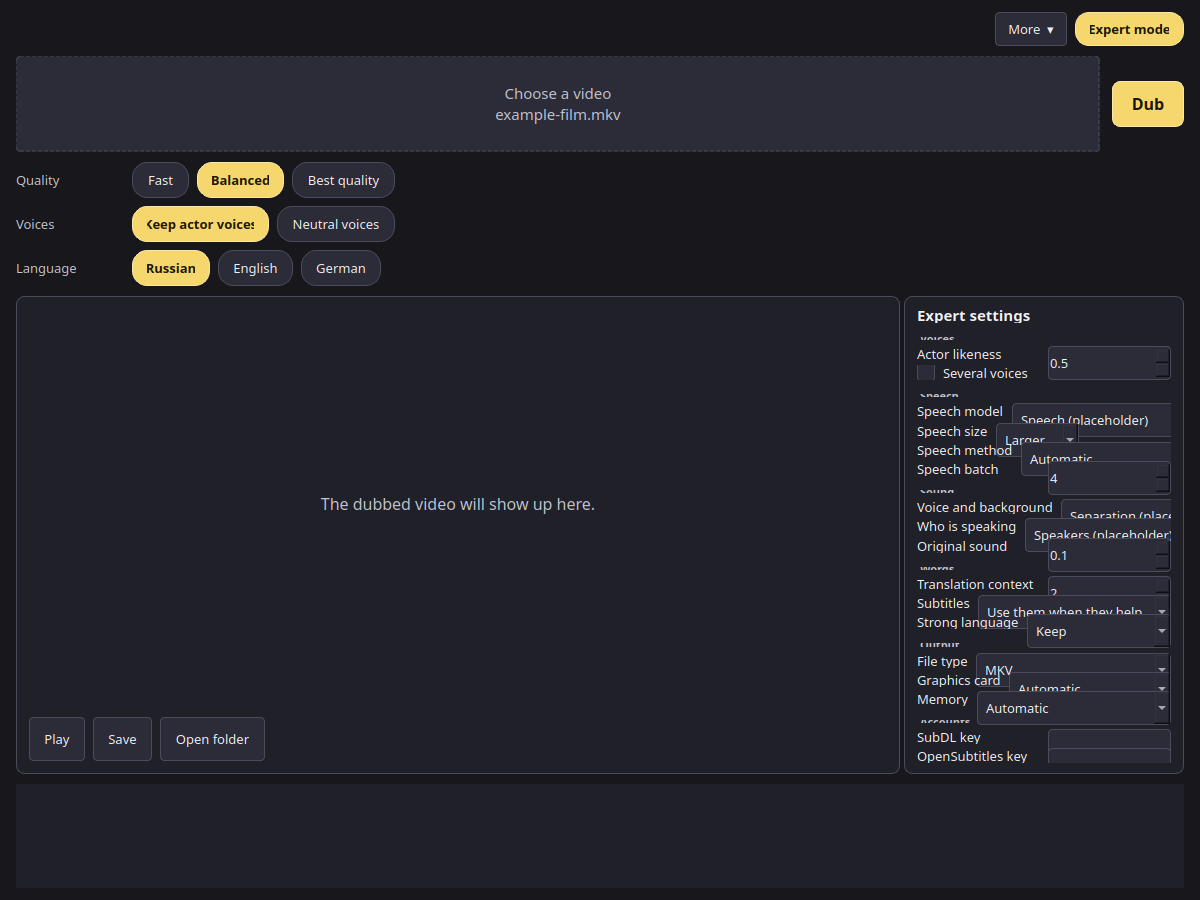
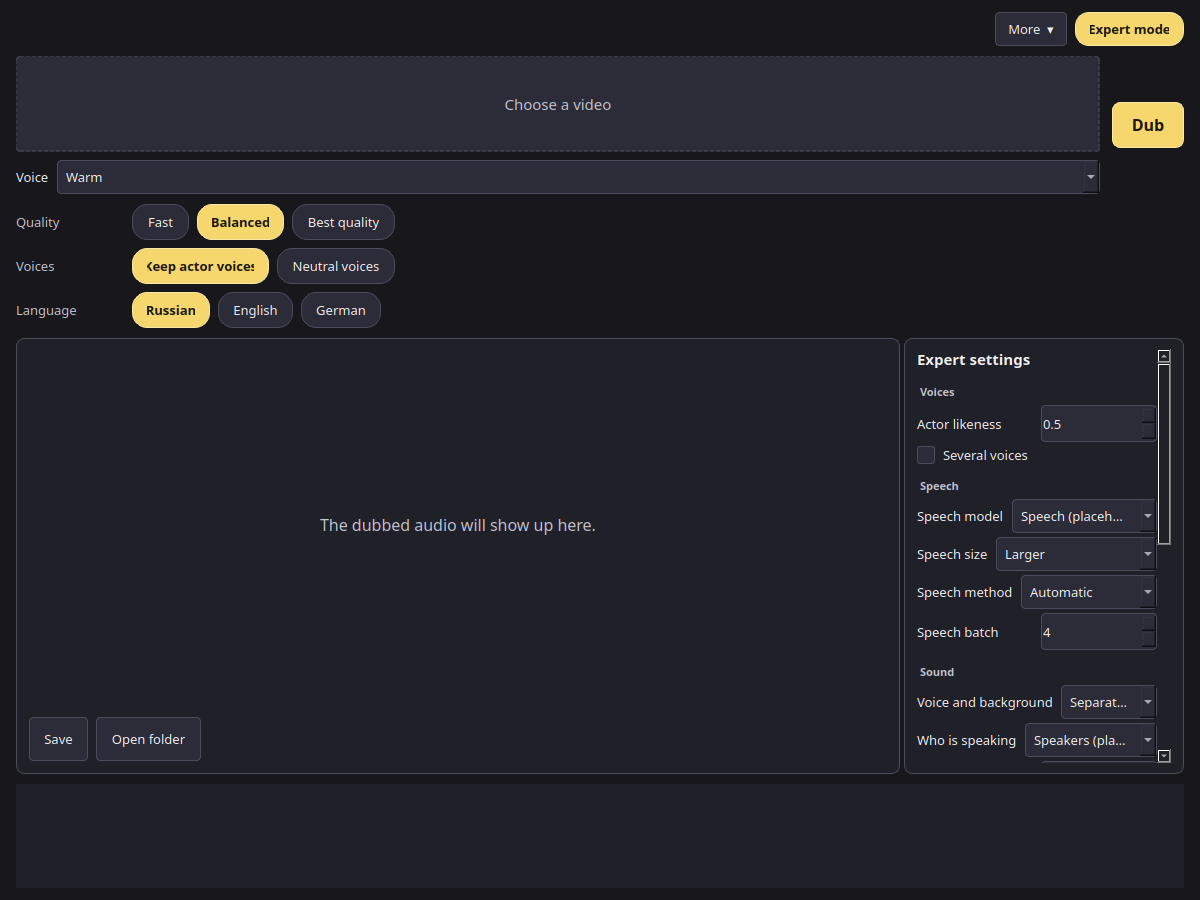
Open the dub screen on the library audio surface.
Movie Dubber now uses surface_for("movie-dubber"), which is the audio
variant. The custom video AppSurface is gone, and the state files are
audio-settings.json and audio-history.json. The pin includes the ui extra.

diff --git a/dubber/ui/shell_window.py b/dubber/ui/shell_window.py
@@ -1,7 +1,8 @@
-"""The movie window on the shared video screen.
+"""The movie window on the shared audio screen.
 
 Simple mode is the video, the language, Quality, Voices, and Dub. Expert mode
-adds the side panel. Both read one settings state. Manage models opens
+adds the side panel. Both read one settings state. The screen is
+``surface_for("movie-dubber")`` from voxprint-common. Manage models opens
 VOXPrint MDL. The older four-step window stays in :mod:`dubber.ui.window` for
 the checks that still build it, and nothing in this window opens it.
 """
@@ -24,13 +25,7 @@ from dubber.models import launch_mdl
 from dubber.pipeline.stages import MOCK_CFG, ORDER
 from dubber.ui import dialogs
 from dubber.ui.jobs import PipelineThread
-from dubber.ui.shell_state import (
-    DUB_SURFACE,
-    apply_engine,
-    apply_project,
-    build_layout,
-    dub_settings,
-)
+from dubber.ui.shell_state import apply_engine, apply_project, build_layout, dub_settings
 from voxprint_common.i18n import add_catalogs
 from voxprint_common.i18n import set_language as set_shell_language
 from voxprint_common.paths import state_dir
@@ -38,7 +33,13 @@ from voxprint_common.suite_settings import set_window_geometry, window_geometry
 from voxprint_common.ui.expert import ExpertMode
 from voxprint_common.ui.simple_image import Phase, SimpleLayout, SimpleWidget
 from voxprint_common.ui.theme import build_shell_style, build_style
-from voxprint_common.ui.variants import WINDOW_HEIGHT, WINDOW_MIN_HEIGHT, WINDOW_MIN_WIDTH, WINDOW_WIDTH
+from voxprint_common.ui.variants import (
+    WINDOW_HEIGHT,
+    WINDOW_MIN_HEIGHT,
+    WINDOW_MIN_WIDTH,
+    WINDOW_WIDTH,
+    surface_for,
+)
 
 VIDEO_EXTS = {".mkv", ".mp4", ".avi", ".mov", ".webm", ".m4v", ".ts", ".m2ts"}
 
@@ -84,7 +85,7 @@ class _VideoPick(QObject):
 
 
 class ShellWindow(QWidget):
-    """Simple video screen. Expert mode only opens the side panel."""
+    """Simple audio screen. Expert mode only opens the side panel."""
 
     def __init__(
         self,
@@ -109,6 +110,7 @@ class ShellWindow(QWidget):
         self._run_id = 0
         self._eta: int | None = None
         self._outputs: dict[str, Path] = {}
+        self._source: Path | None = None
         self._fitted = False
         self.diag_dialog: dialogs.DiagnosticsDialog | None = None
         self.expert = ExpertMode()
@@ -120,7 +122,7 @@ class ShellWindow(QWidget):
             on_generate=self._started,
             on_command=self._command,
             on_history=self._history,
-            surface=DUB_SURFACE,
+            surface=surface_for("movie-dubber"),
         )
         self.setObjectName("shell")
         self.setWindowTitle(APP_DISPLAY_NAME)
@@ -130,7 +132,6 @@ class ShellWindow(QWidget):
         body.setContentsMargins(0, 0, 0, 0)
         body.addWidget(self.view.root)
         self._install_video_pick()
-        self._add_play()
         self._add_diagnostics()
         self._stop_expert = self.expert.subscribe(self.view.set_expert)
         self.view.set_expert(self.expert.enabled())
@@ -147,8 +148,10 @@ class ShellWindow(QWidget):
         if path.suffix.lower() not in VIDEO_EXTS or not path.is_file():
             self.view.set_note(tr("shell.need_file"))
             return
+        chosen = path.resolve()
+        self._source = chosen
         self.view.set_note("")
-        self.view.set_prompt_text(str(path.resolve()))
+        self.view.set_prompt_text(str(chosen))
         self.view.refresh(prompt=True)
 
     def browse(self) -> None:
@@ -244,17 +247,6 @@ class ShellWindow(QWidget):
         self._picker = _VideoPick(self)
         drop.installEventFilter(self._picker)
 
-    def _add_play(self) -> None:
-        button = QPushButton(tr("shell.play"))
-        button.setObjectName("playResult")
-        button.setAutoDefault(False)
-        button.setMinimumHeight(34)
-        button.clicked.connect(self._play)
-        bar = self.view.root.findChild(QWidget, "actionBar")
-        if bar is None or bar.layout() is None:
-            return
-        bar.layout().insertWidget(0, button)
-
     def _add_diagnostics(self) -> None:
         overflow = self.view.root.findChild(QPushButton, "overflow")
         menu = None if overflow is None else overflow.menu()
@@ -297,9 +289,24 @@ class ShellWindow(QWidget):
         if action == "show_folder":
             self._reveal(path)
 
+    def _restore_source(self) -> Path | None:
+        """Put the chosen film back into the prompt.
+
+        Dub appends the shell voice label to the prompt. That combo is a
+        placeholder on the audio surface. The film path stays on this window.
+
+        Returns:
+            The film, or None when none is chosen.
+        """
+        path = self._source
+        if path is None or not path.is_file() or path.suffix.lower() not in VIDEO_EXTS:
+            return None
+        self.shell.set_prompt(str(path))
+        return path
+
     def _started(self) -> None:
-        path = Path(self.shell.prompt.strip())
-        if not path.is_file() or path.suffix.lower() not in VIDEO_EXTS:
+        path = self._restore_source()
+        if path is None:
             self.shell.block(tr("shell.need_file"))
             self.view.refresh()
             return
@@ -420,13 +427,6 @@ class ShellWindow(QWidget):
     def _open_settings(self) -> None:
         dialogs.SettingsDialog(self).exec()
 
-    def _play(self) -> None:
-        path = self._current_output()
-        if path is None:
-            self.view.set_note(tr("shell.need_result"))
-            return
-        self._open_file(path)
-
     def _open_folder(self) -> None:
         path = self._current_output() or self._video_path()
         if path is None:
@@ -443,6 +443,8 @@ class ShellWindow(QWidget):
         return None
 
     def _video_path(self) -> Path | None:
+        if self._source is not None and self._source.is_file():
+            return self._source
         text = self.shell.prompt.strip()
         if not text:
             return None

diff --git a/dubber/ui/shell_state.py b/dubber/ui/shell_state.py
@@ -17,7 +17,7 @@ from voxprint_common.mdl.catalog import load_manifest
 from voxprint_common.ui.presets import PresetFile, PresetGroup, PresetOption
 from voxprint_common.ui.settings import Choice, SettingSpec, Settings, SettingType
 from voxprint_common.ui.simple_image import SimpleLayout
-from voxprint_common.ui.variants import AppSurface, InputKind, ResultKind, VariantId
+from voxprint_common.ui.variants import state_names, surface_for
 
 from dubber.appinfo import resource_dir
 
@@ -32,18 +32,6 @@ PLACEHOLDER_ROLES: dict[str, str] = {
 }
 
 _FORGE: dict[str, str] = {}
-
-DUB_SURFACE = AppSurface(
-    "movie-dubber",
-    VariantId.VIDEO,
-    InputKind.FILE,
-    ResultKind.PLAYER,
-    "simple.action.dub",
-    "simple.empty.video",
-    "simple.drop.video",
-    "video",
-    "simple.drop.video",
-)
 
 _QUALITY_ORDER = (
     "dub.tts_model",
@@ -448,19 +436,24 @@ def dub_presets(settings: Settings | None = None) -> PresetFile:
 
 
 def build_layout(state_dir: Path | None) -> SimpleLayout:
-    """Build the video screen state. ``state_dir`` None keeps it in memory.
+    """Build the dub screen state. ``state_dir`` None keeps it in memory.
+
+    The widget uses :func:`surface_for` ``movie-dubber``. That surface is the
+    audio variant, so the files are ``audio-settings.json`` and
+    ``audio-history.json``.
 
     Args:
         state_dir: App state directory, or None for a memory-only state.
     """
     settings = dub_settings()
+    settings_file, history_file = state_names(surface_for("movie-dubber"))
     return SimpleLayout(
         presets=dub_presets(settings),
         settings=settings,
         state_dir=state_dir,
         gate=DubReview(),
-        state_name="video-settings.json",
-        history_name="video-history.json",
+        state_name=settings_file,
+        history_name=history_file,
     )
 
 

diff --git a/tests/test_shell_state.py b/tests/test_shell_state.py
@@ -1,6 +1,8 @@
 """Shared settings state for the simple screen: presets, custom, reset, and Expert mode."""
 from __future__ import annotations
 
+from pathlib import Path
+
 from dubber.ui.shell_state import (
     apply_engine,
     apply_project,
@@ -13,12 +15,31 @@ from dubber.ui.shell_state import (
 )
 from voxprint_common.ui.expert import ExpertMode
 from voxprint_common.ui.presets import PresetMatch
+from voxprint_common.ui.variants import InputKind, ResultKind, VariantId, state_names, surface_for
 
 
 def _layout(tmp_path, monkeypatch):
     monkeypatch.setenv("VOXPRINT_HOME", str(tmp_path / "home"))
     clear_model_forge()
     return build_layout(tmp_path / "state")
+
+
+def test_layout_uses_the_library_audio_surface(tmp_path, monkeypatch):
+    surface = surface_for("movie-dubber")
+    assert surface.variant is VariantId.AUDIO
+    assert surface.input_kind is InputKind.MEDIA_VOICE
+    assert surface.result_kind is ResultKind.PLAYER
+    settings_name, history_name = state_names(surface)
+    assert (settings_name, history_name) == ("audio-settings.json", "audio-history.json")
+    layout = _layout(tmp_path, monkeypatch)
+    layout.choose("language", "en")
+    state = tmp_path / "state"
+    assert (state / "audio-settings.json").is_file()
+    assert not (state / "video-settings.json").exists()
+    source = (Path(__file__).resolve().parents[1] / "dubber" / "ui" / "shell_state.py").read_text(encoding="utf-8")
+    window = (Path(__file__).resolve().parents[1] / "dubber" / "ui" / "shell_window.py").read_text(encoding="utf-8")
+    assert "AppSurface(" not in source
+    assert "AppSurface(" not in window
 
 
 def test_balanced_is_the_default_and_fast_writes_concrete_values(tmp_path, monkeypatch):

diff --git a/tests/test_shell_window.py b/tests/test_shell_window.py
@@ -1,4 +1,4 @@
-"""The shared video screen: Dub, Expert mode, and no model ids in the window."""
+"""The shared audio screen: Dub, Expert mode, and no model ids in the window."""
 from __future__ import annotations
 
 from pathlib import Path
@@ -8,6 +8,7 @@ from PySide6.QtWidgets import QApplication, QPushButton, QWidget
 from dubber import i18n
 from dubber.ui.shell_window import ShellWindow
 from voxprint_common.i18n import reset as reset_shell
+from voxprint_common.ui.variants import surface_for
 
 
 def _window(tmp_path, monkeypatch, lang: str):
@@ -38,6 +39,23 @@ def test_simple_screen_dubs_in_plain_words_and_expert_keeps_values(tmp_path, mon
     window.expert.set_enabled(False)
     assert window.shell.get("dub.tts_size") == "small"
     assert window.shell.get("dub.actor_weight") == 0.5
+    window.close()
+
+
+def test_audio_surface_keeps_the_film_path(tmp_path, monkeypatch):
+    window = _window(tmp_path, monkeypatch, "en")
+    window.show()
+    QApplication.processEvents()
+    assert window.view._surface == surface_for("movie-dubber")
+    assert window.view.root.findChild(QWidget, "voicePicker") is not None
+    assert window.view.root.findChild(QWidget, "player") is not None
+    assert window.view.root.findChild(QPushButton, "playResult") is None
+    film = tmp_path / "clip.mkv"
+    film.write_bytes(b"x")
+    window.set_video(film)
+    window.shell.set_prompt(f"{film.resolve()} · Warm")
+    assert window._restore_source() == film.resolve()
+    assert window.shell.prompt == str(film.resolve())
     window.close()
 
 

diff --git a/tests/test_real_cases.py b/tests/test_real_cases.py
@@ -534,7 +534,7 @@ def test_common_pin_is_the_provisional_shell_commit():
     root = Path(__file__).resolve().parents[1]
     req = (root / "requirements.txt").read_text(encoding="utf-8")
     pin = (
-        "voxprint-common @ git+https://github.com/Mitroshenkov87/voxprint-common@"
+        "voxprint-common[ui] @ git+https://github.com/Mitroshenkov87/voxprint-common@"
         "f4e95ccfa25780abaf50412cb095a7843725102a"
     )
     assert pin in req
